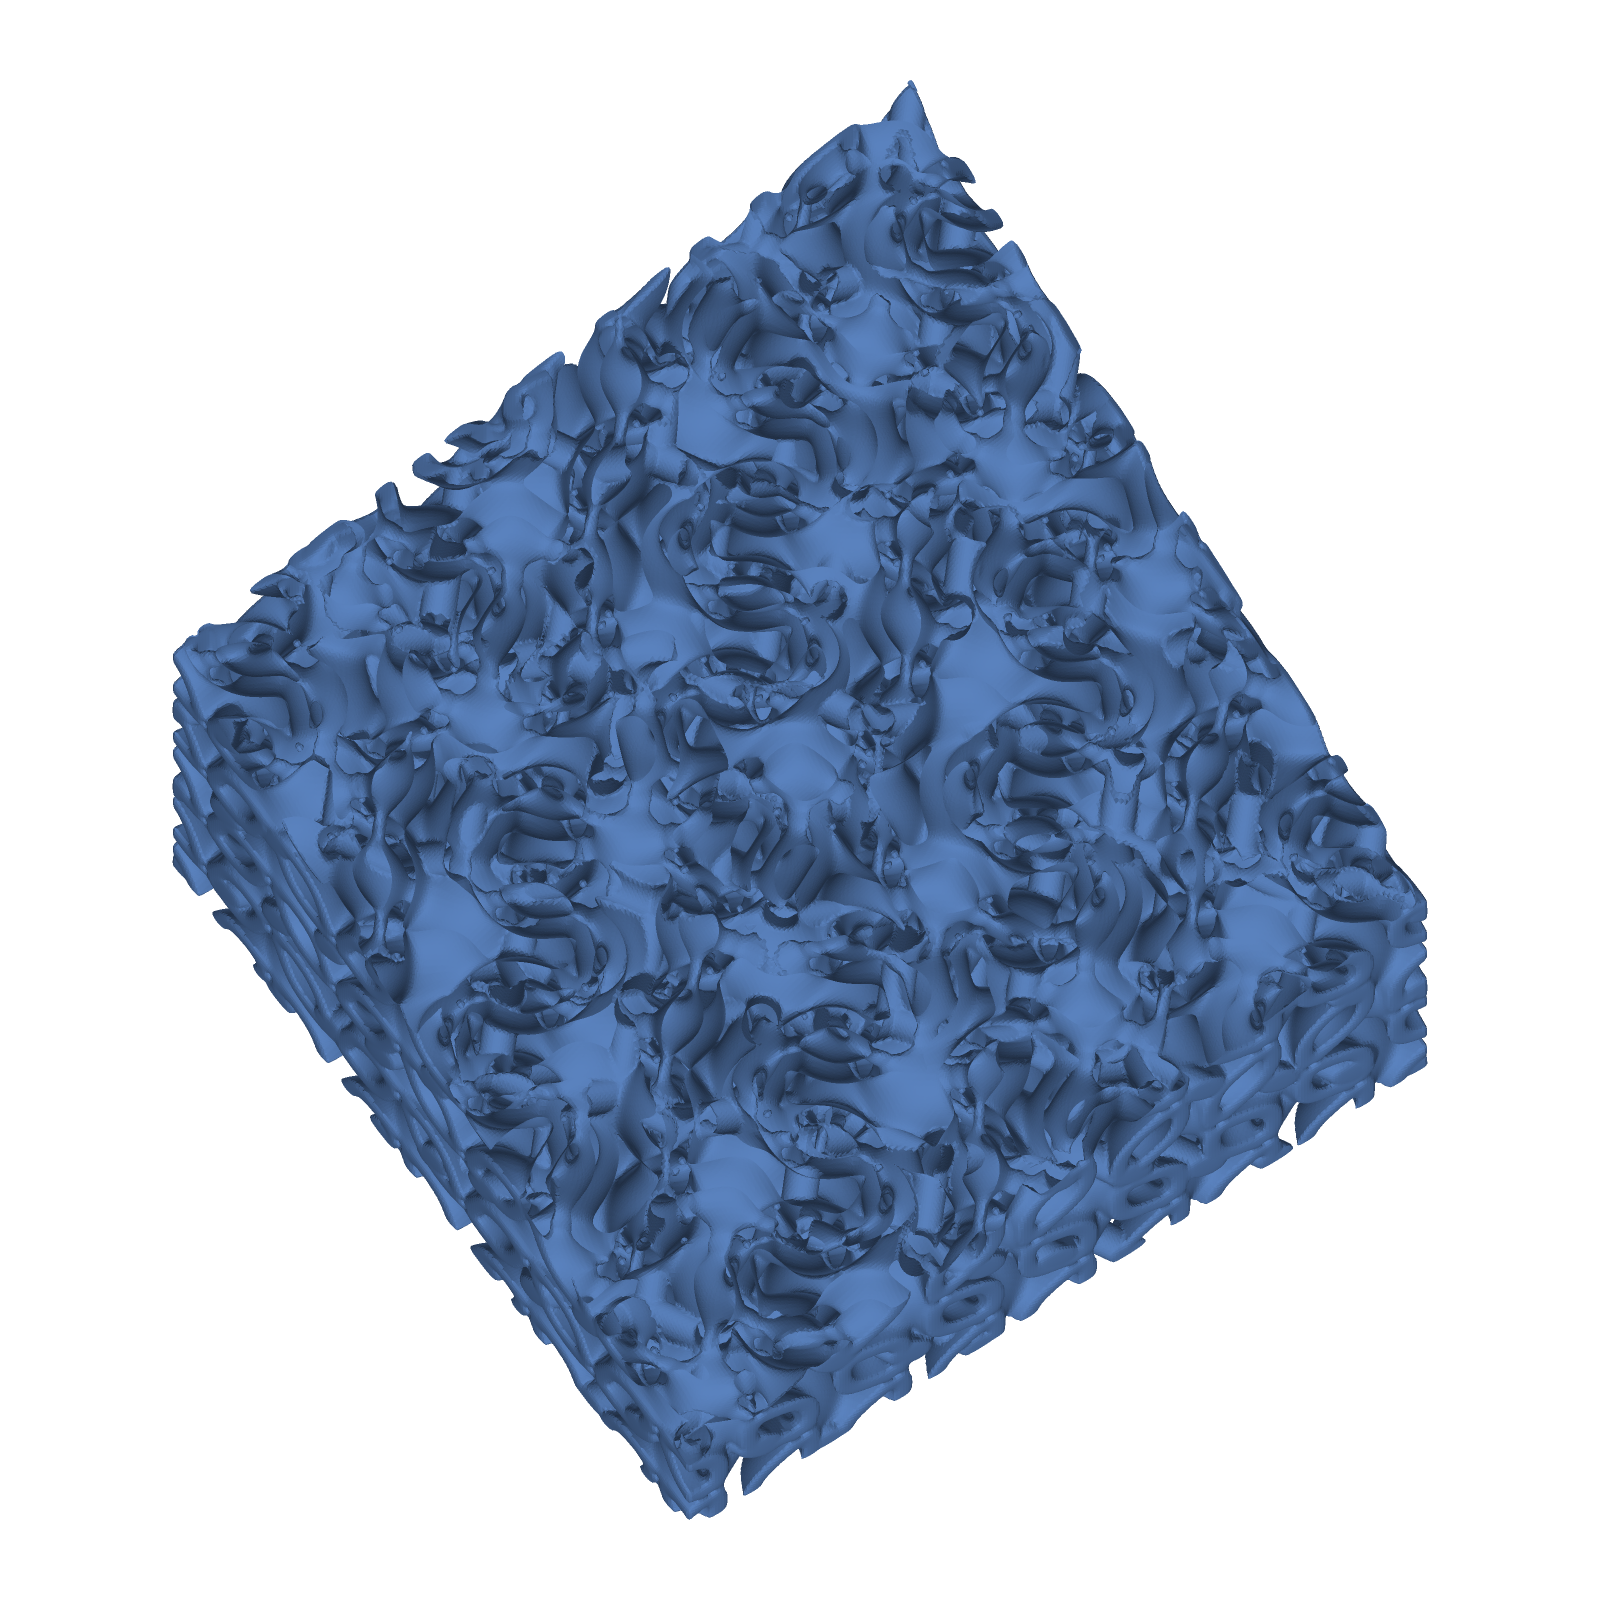
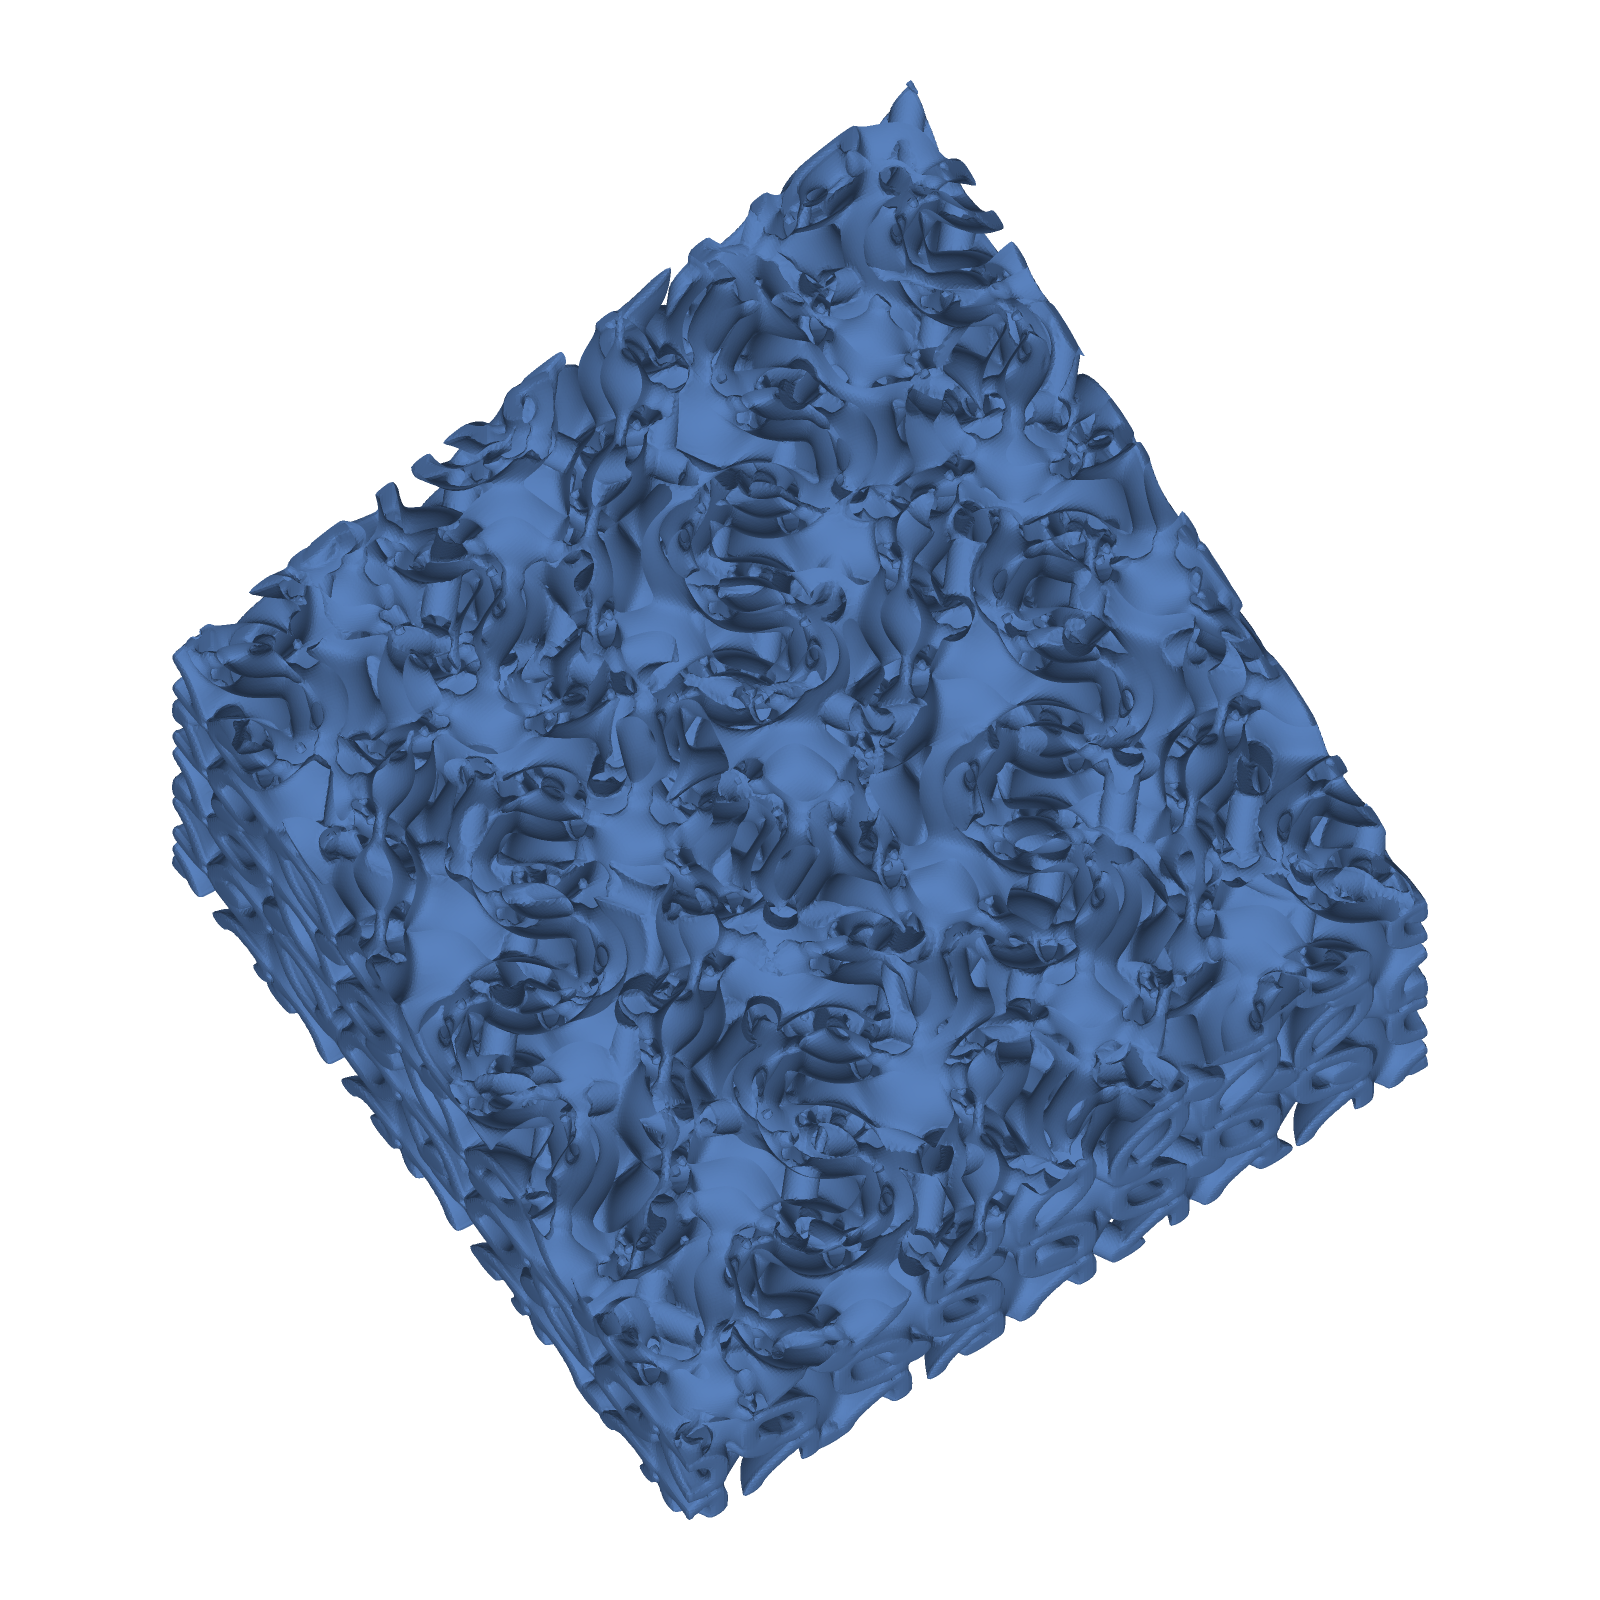
Open 256 set: five fused designs re-meshed with dual contouring (CPU): all PASS; volumes change by at most 0.6 % (diamond+Lidinoid 5138.036 -> 5107.865). README: new values, footnote (MC check recomputed; 256 vs 320 not re-run), DC section. docs/NONMANIFOLD.md: DC results at 96/128/160/256; residual

diff --git a/examples/structure_gallery_256/fusion_kelvin_to_iwp/design.ts b/examples/structure_gallery_256/fusion_kelvin_to_iwp/design.ts
@@ -1,5 +1,5 @@
 // Bioinspired123D-WASM parametric design (final state after RepairHarness).
-// Prompt: "fusion zoned: Kelvin lattice below, I-WP above, with skin"
+// Prompt: "fusion zoned: Kelvin lattice below, I-WP above, open"
 // Run from the project root:  node --experimental-strip-types artifacts/<name>/design.ts
 // Edit the constants below and re-run to regenerate geometry and metrics.
 // SDF (reference): fusion (zoned) of two designs; field = min(max(A, z - zc - o/2), max(B, zc - o/2 - z))

diff --git a/examples/structure_gallery_256/fusion_diamond_plus_lidinoid/design.ts b/examples/structure_gallery_256/fusion_diamond_plus_lidinoid/design.ts
@@ -1,5 +1,5 @@
 // Bioinspired123D-WASM parametric design (final state after RepairHarness).
-// Prompt: "fusion union: diamond lattice with lidinoid TPMS and skin"
+// Prompt: "fusion union: diamond lattice with lidinoid TPMS, open"
 // Run from the project root:  node --experimental-strip-types artifacts/<name>/design.ts
 // Edit the constants below and re-run to regenerate geometry and metrics.
 // SDF (reference): fusion (union) of two designs; field = min(A, B)

diff --git a/docs/NONMANIFOLD.md b/docs/NONMANIFOLD.md
@@ -1,7 +1,10 @@
-# Non-manifold edges in surface-nets meshes
+# Non-manifold edges in fused meshes
 
-Measured with `scripts/nonmanifold_count.ts` on the surface-nets mesh of each design (CPU, no repair applied).
-An edge shared by exactly 2 triangles is manifold; 1 is open; 3 or more is non-manifold.
+Measured with `scripts/nonmanifold_count.ts` (surface-nets baseline) and `scripts/compare_extractors.ts` (surface nets vs
+dual contouring), CPU, no repair applied. An edge shared by exactly 2 triangles is manifold; 1 is open; 3 or more is
+non-manifold.
+
+## Baseline (surface nets, before the change)
 
 | Design | Res | Triangles | Open edges | Manifold edges | Non-manifold edges | Max triangles per edge |
 |---|---|---|---|---|---|---|
@@ -13,20 +16,49 @@ An edge shared by exactly 2 triangles is manifold; 1 is open; 3 or more is non-m
 | `structure_gallery_256_mixed_open/fusion_gyroid_plus_bcc` (union) | 96 | 880,260 | 0 | 1,312,596 | 3,897 | 4 |
 | `structure_gallery_256_mixed_open/fusion_gyroid_plus_bcc` (union) | 128 | 1,586,712 | 0 | 2,371,692 | 4,188 | 4 |
 
+## Dual contouring for fused designs (current)
+
+`src/geometry/index.ts` now meshes `topology: "fusion"` designs with manifold dual contouring
+(`src/geometry/dualcontour.ts`, one vertex per cell, one quad per sign-changing edge). Other designs keep surface nets.
+Triangle counts are the same for both extractors at a given resolution; only the vertex placement differs.
+
+| Design | Res | Non-manifold edges, surface nets | Non-manifold edges, dual contouring | Open edges (both) |
+|---|---|---|---|---|
+| `fusion_gyroid_plus_bcc` | 96 | 3,897 | 135 | 0 |
+| `fusion_gyroid_plus_bcc` | 128 | 4,188 | 141 | 0 |
+| `fusion_schwarzp_to_gyroid` | 96 | 64 | 0 | 0 |
+| `fusion_kelvin_to_iwp` | 96 | 488 | 14 | 0 |
+| `fusion_bcc_plus_voronoi` | 96 | 1,019 | 53 | 0 |
+| `fusion_helical_cap_iwp` | 96 | 113 | 6 | 0 |
+| `fusion_diamond_plus_lidinoid` | 96 | 7,092 | 483 | 0 |
+| `fusion_diamond_plus_lidinoid` | 160 | 9,918 | 384 | 0 |
+| `fusion_diamond_plus_lidinoid` | 256 | 14,535 | 588 | 0 |
+
+Volume effect (mm³): gyroid+BCC 96: SN 3375.951 / DC 3379.773. Diamond+Lidinoid 256: SN 5138.370 / DC 5108.217 /
+Monte Carlo 5094.44. DC volume is nearly constant in resolution (5109–5112), while SN converges slowly from above
+(5317 at 96, 5185 at 160, 5138 at 256). Dual-contouring time: about 1–2.5 s at 96 cells, about 15 s at 256 cells
+(diamond). The gallery values regenerated with DC are in `examples/structure_gallery_256_mixed_open/` (six fused
+designs) and `examples/structure_gallery_256/` (five fused designs).
+
 ## Reading
 
-- Each part alone is manifold at these resolutions. The non-manifold edges appear only in the union.
-- The union is the field `min(A, B)`. Where the two surfaces cross, the union has a crease. Surface nets places one
-  vertex per grid cell, so along a crease some edges end up shared by four triangles.
-- The count grows slightly with resolution (3,897 → 4,188). It does not go to zero, so it is not a grid-only artefact.
-- Open edges are 0 everywhere, so the existing "watertight" check (0 open edges) does not see these edges. The
-  check name overstates what it tests; it does not establish manifoldness.
+- Each part alone is manifold at these resolutions. The non-manifold edges appear only where the parts meet.
+- The union is the field `min(A, B)`. Surface nets puts one vertex per grid cell, so along a crease some edges are shared
+  by four triangles. Dual contouring removes most of these, because it places a vertex per cell and does not pinch
+  across a crease.
+- The residual edges (for example 483 / 384 / 588 for diamond+Lidinoid) are sub-voxel pinches: two adjacent cells share
+  two sign-change crossings on one face, which gives a double dual edge (four triangles on one edge). They are narrower
+  than one voxel, and their count does not fall with resolution (483 → 384 → 588 over 96 → 160 → 256). They are not
+  resolved. The known fix is to split the vertex of such cells (vertex duplication), which changes topology locally.
+- Open edges are 0 everywhere, so the existing "watertight" check (0 open edges) does not see these edges. The check
+  name overstates what it tests; it does not establish manifoldness.
 
 ## Not done
 
+- The residual pinches above (about 135–588 edges per fused mesh at 96–256 cells) are not removed.
+- Non-manifold edges in non-fused designs are not measured in this document (surface nets there, 0 in the cases above).
+- The closed 96 and 192 gallery fusion records still use surface nets (not regenerated). Whether to regenerate them is
+  not decided.
 - The section benchmark (`docs/SECTIONS.md`, `eval/design_section_bench.csv`) reported 861–1,413 non-manifold edges for
-  a clipped gyroid. That clipped geometry was not re-measured here, so those numbers are not checked by this script.
-- No fix. Options (not chosen): dual contouring with a feature-preserving vertex placement, splitting non-manifold
-  edges by vertex duplication (changes topology locally), or a smooth minimum for the union (changes the geometry).
-  Each affects every fused design and would need the gallery re-run.
-- STL and STEP outputs of fused designs may carry these edges; their consumers may reject them.
+  a clipped gyroid. That clipped geometry was measured with surface nets and was not re-measured here.
+- STL and STEP outputs of fused designs may still carry the residual pinches; their consumers may reject them.

diff --git a/examples/structure_gallery_256/README.md b/examples/structure_gallery_256/README.md
@@ -85,11 +85,11 @@ Per design: `screenshot.png` (iso cut-away, shows the interior) and `view_top.pn
 | id | volume (mm³) | components | min wall (mm) | MC check | 256 vs 320 | result |
 |---|---|---|---|---|---|---|
 | fusion_gyroid_plus_helical | 7419.539 | 1 | 0.480 | 0.12 % | 0.00 % | PASS |
-| fusion_schwarzp_to_gyroid | 2179.981 | 1 | 0.480 | 0.22 % | 0.03 % | PASS |
-| fusion_kelvin_to_iwp | 2205.499 | 1 | 0.472 | 0.45 % | 0.00 % | PASS |
-| fusion_bcc_plus_voronoi | 6174.205 | 1 | 0.800 | 0.14 % | 0.00 % | PASS |
-| fusion_helical_cap_iwp | 2381.578 | 1 | 0.471 | 0.98 % | 0.16 % | PASS |
-| fusion_diamond_plus_lidinoid | 5138.036 | 1 | 0.435 | 0.65 % | 0.20 % | PASS |
+| fusion_schwarzp_to_gyroid | 2180.736 | 1 | 0.480 | 0.23 % † | n/r ‡ | PASS |
+| fusion_kelvin_to_iwp | 2212.687 | 1 | 0.472 | 0.13 % † | n/r ‡ | PASS |
+| fusion_bcc_plus_voronoi | 6175.190 | 1 | 0.800 | 0.15 % † | n/r ‡ | PASS |
+| fusion_helical_cap_iwp | 2380.508 | 1 | 0.471 | 1.18 % † | n/r ‡ | PASS |
+| fusion_diamond_plus_lidinoid | 5107.865 | 1 | 0.435 | 0.26 % † | n/r ‡ | PASS |
 
 ## Deep coupled fusion R1–R5 (coupled topology, from the remote branch)
 
@@ -99,3 +99,10 @@ Per design: `screenshot.png` (iso cut-away, shows the interior) and `view_top.pn
 
 
 Per entry: `<id>/screenshot.png` and `view_*.png` (cut-away), `design.json` (spec, metrics, repair history, limitations), `design.ts` (copy-executable parametric code); all checks in `gallery.json`.
+
+† Dual-contouring mesh (`src/geometry/dualcontour.ts`, 2026-10-19). MC check = |V − V_MC| / V_MC with V_MC from `gallery.json` (`volume_mc_mm3`). The earlier column values for these five were not reproduced from the stored metrics and are replaced.
+‡ n/r = not re-run. The 256 vs 320 column for these five is a surface-nets value from before the change and is not recomputed.
+
+## Fused designs: dual-contouring re-run (CPU, 256)
+The five fused designs above were re-meshed with manifold dual contouring; the sixth fused design (`fusion_gyroid_plus_bcc`) is in `examples/structure_gallery_256_mixed_open/`. All five PASS. Volume changes against the earlier surface-nets values are at most 0.6 %: schwarz→gyroid 2179.981 → 2180.736; kelvin→iwp 2205.499 → 2212.687; BCC+Voronoi 6174.205 → 6175.190; helical cap 2381.578 → 2380.508; diamond+Lidinoid 5138.036 → 5107.865 (Monte Carlo 5094.4). Non-manifold edges at 96 cells fall from 64 → 0, 488 → 14, 1019 → 53, 113 → 6, 7092 → 483. The residual sub-voxel pinches are documented in `docs/NONMANIFOLD.md`.
+
